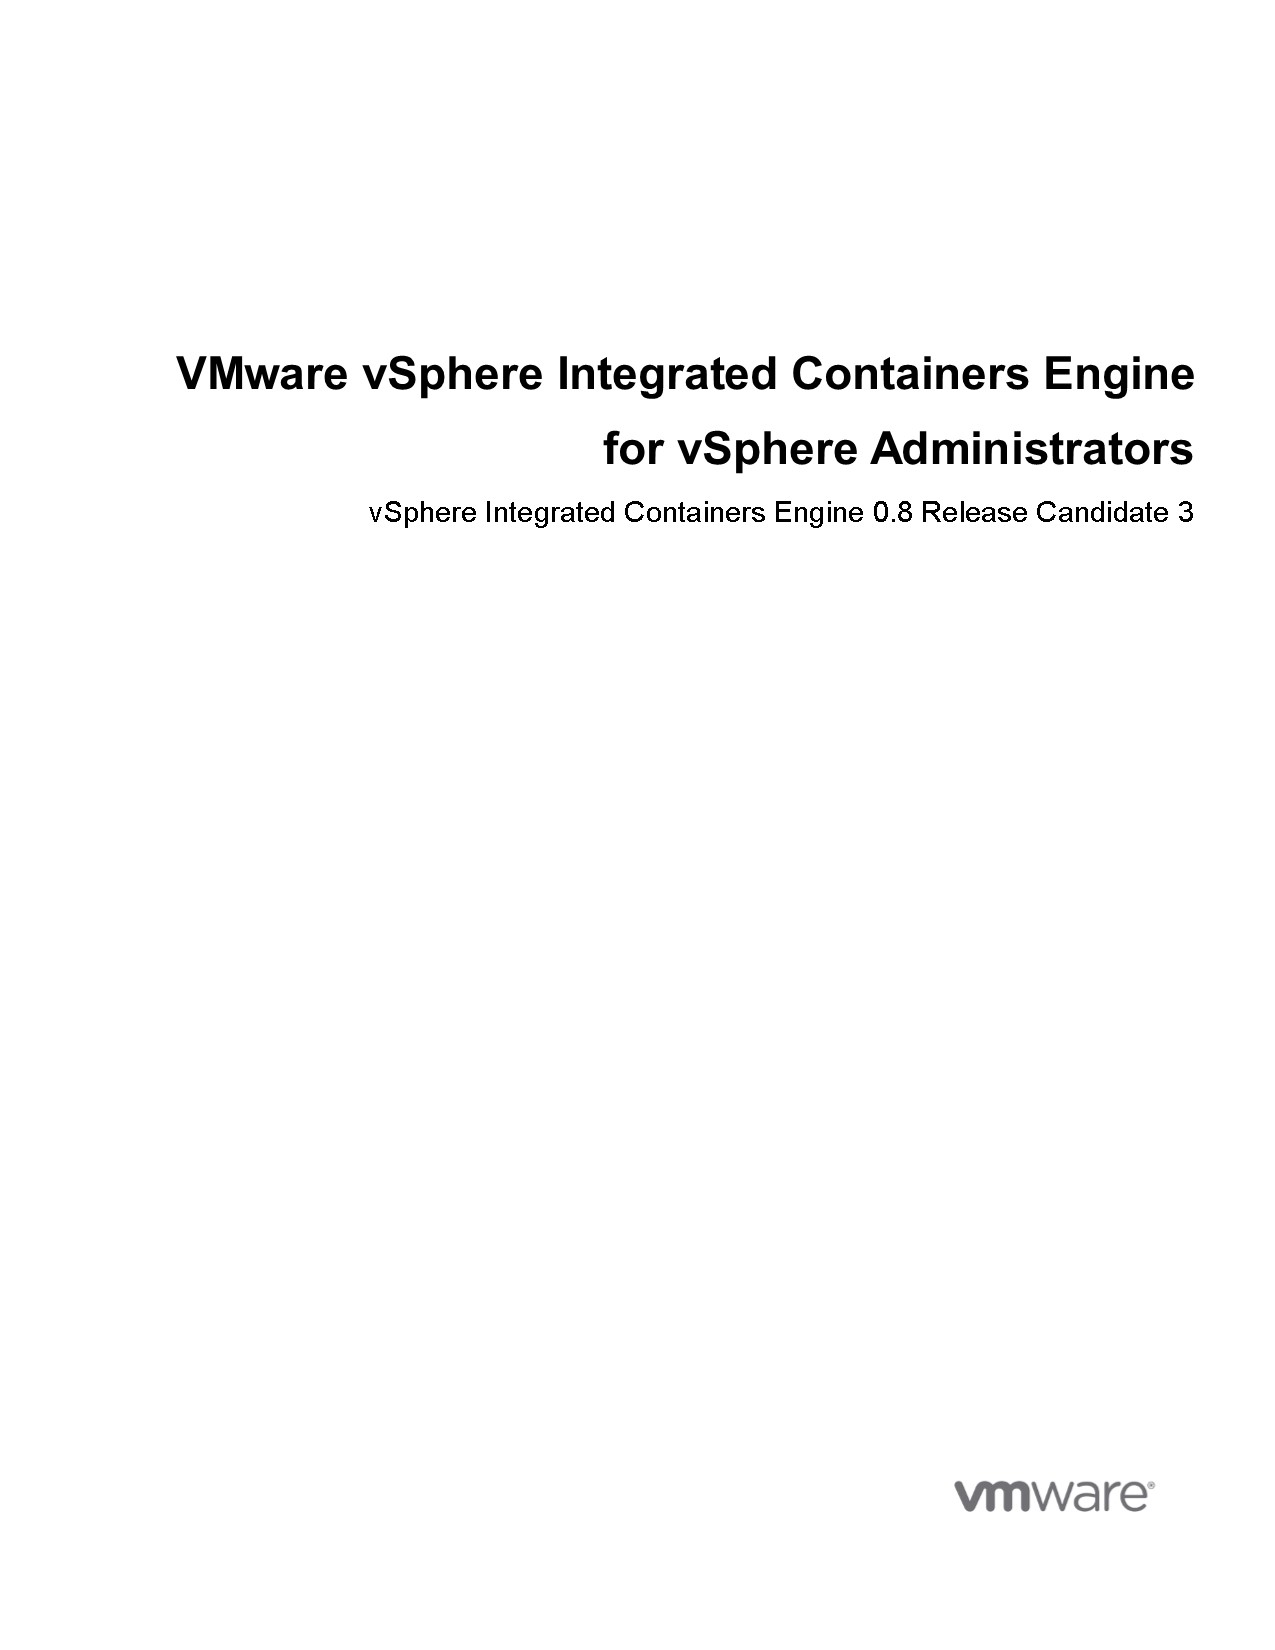
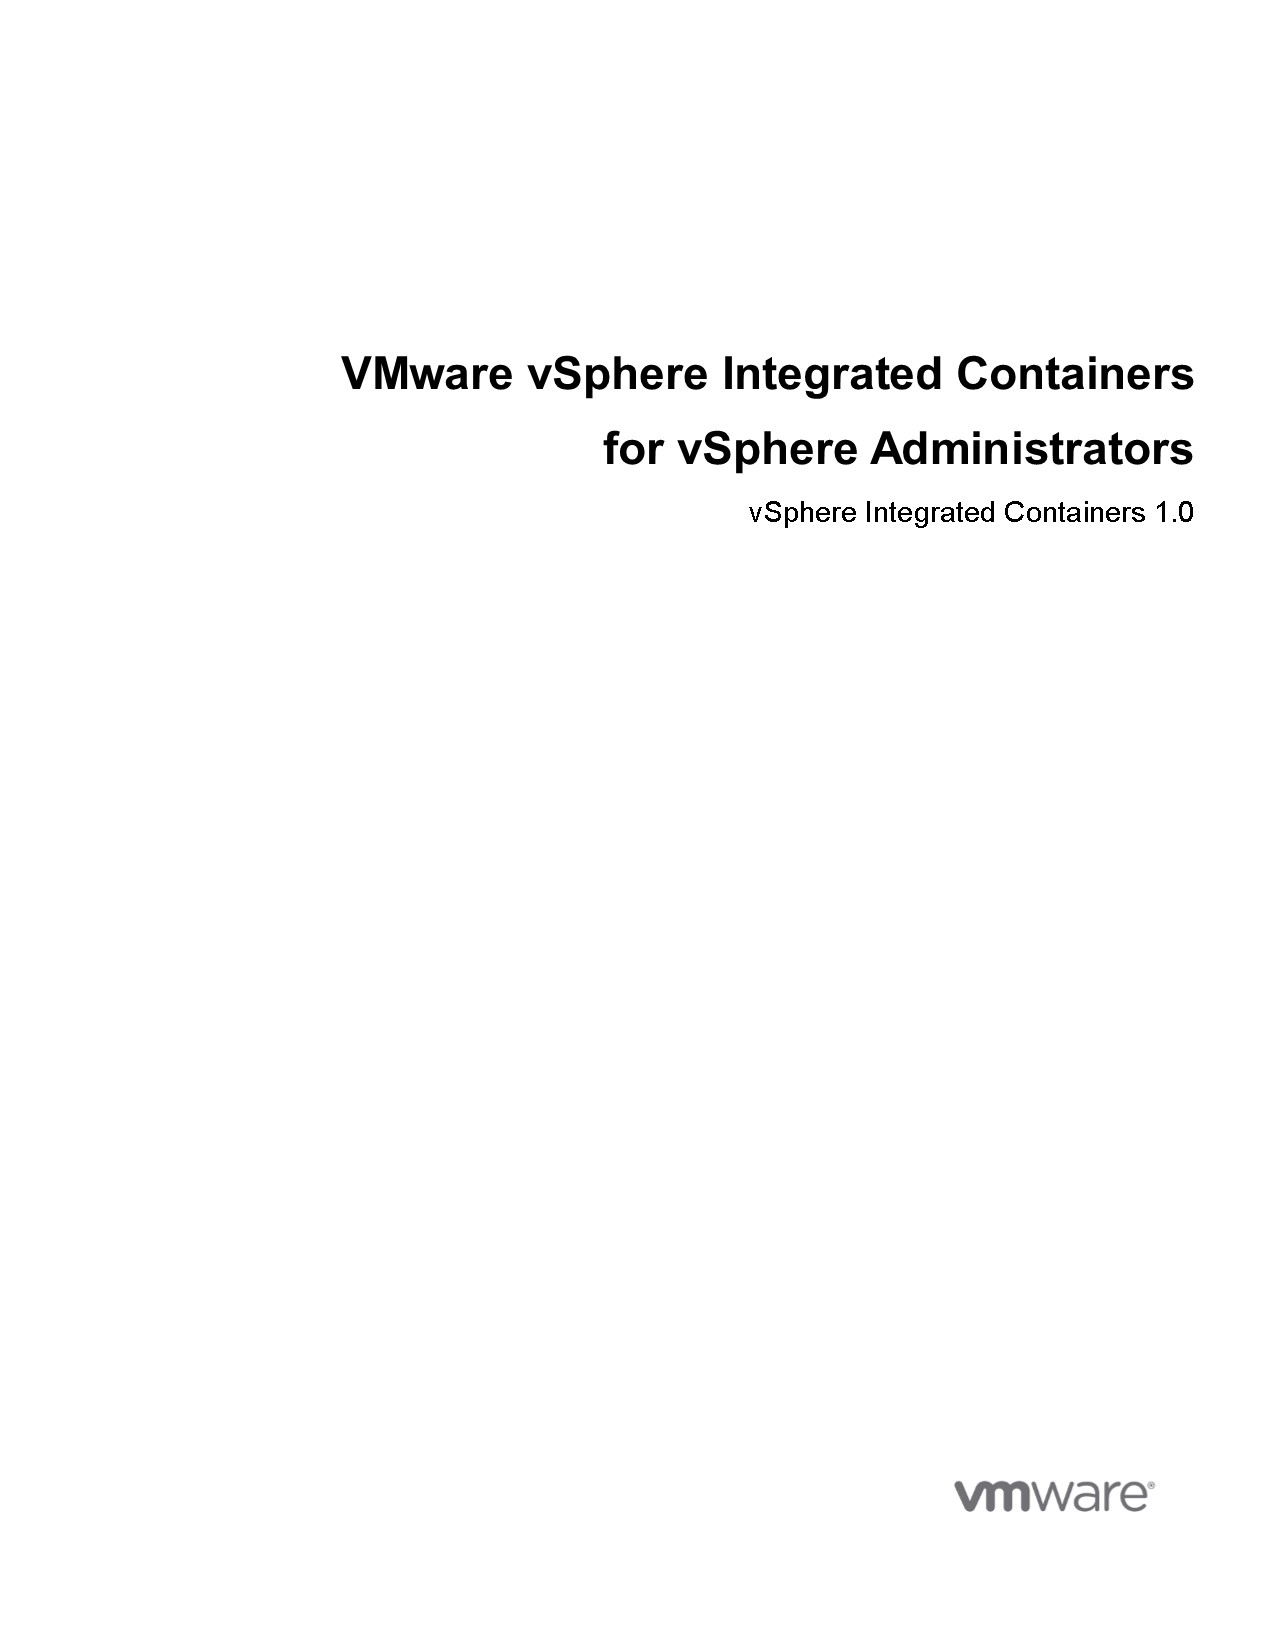
Removing "engine" from doc titles and setting version to 1.0.

diff --git a/doc/user_doc/vic_admin/README.md b/doc/user_doc/vic_admin/README.md
@@ -1,14 +1,14 @@
-# vSphere Integrated Containers Engine for vSphere Administrators
+# vSphere Integrated Containers for vSphere Administrators
 
-*vSphere Integrated Containers Engine for vSphere Administrators* provides information about how to use VMware vSphere&reg; Integrated Containers&trade; Engine as a vSphere Administrator.
+*vSphere Integrated Containers for vSphere Administrators* provides information about how to use VMware vSphere&reg; Integrated Containers&trade; as a vSphere Administrator.
 
-**Product version: 0.8 Release Candidate 3**
+**Product version: 1.0**
 
-For an introduction to vSphere Integrated Containers Engine and descriptions of its main components, see *vSphere Integrated Containers Engine for vSphere Installation*.
+For an introduction to vSphere Integrated Containers and descriptions of its main components, see *vSphere Integrated Containers Installation*.
 
 ## Intended Audience
 
-This information is intended for vSphere&reg; Administrators who must manage a vSphere Integrated Containers Engine implementation in their vSphere environment. The information is written for experienced vSphere  administrators who are familiar with virtual machine technology and datacenter operations. Knowledge of [container technology](https://en.wikipedia.org/wiki/Operating-system-level_virtualization) and [Docker](https://docs.docker.com/) is assumed.
+This information is intended for vSphere&reg; Administrators who must manage a vSphere Integrated Containers implementation in their vSphere environment. The information is written for experienced vSphere  administrators who are familiar with virtual machine technology and datacenter operations. Knowledge of [container technology](https://en.wikipedia.org/wiki/Operating-system-level_virtualization) and [Docker](https://docs.docker.com/) is assumed.
 
 ----------
 

diff --git a/doc/user_doc/vic_app_dev/README.md b/doc/user_doc/vic_app_dev/README.md
@@ -1,14 +1,14 @@
-# Developing Container Applications with vSphere Integrated Containers Engine 
+# Developing Container Applications with vSphere Integrated Containers  
 
-*Developing Container Applications with vSphere Integrated Containers Engine* provides information about how to use VMware vSphere&reg; Integrated Containers&trade; Engine as the endpoint for Docker container application development.
+*Developing Container Applications with vSphere Integrated Containers* provides information about how to use VMware vSphere&reg; Integrated Containers&trade; as the endpoint for Docker container application development.
 
-**Product version: 0.8 Release Candidate 3**
+**Product version: 1.0**
 
-For an introduction to vSphere Integrated Containers Engine and descriptions of its main components, see *vSphere Integrated Containers Engine for vSphere Installation*.
+For an introduction to vSphere Integrated Containers and descriptions of its main components, see *vSphere Integrated Containers Installation*.
 
 ## Intended Audience
 
-This information is intended for container application developers who's Docker environment uses vSphere Integrated Containers Engine as its endpoint. Knowledge of [container technology](https://en.wikipedia.org/wiki/Operating-system-level_virtualization) and [Docker](https://docs.docker.com/) is assumed.
+This information is intended for container application developers whose Docker environment uses vSphere Integrated Containers as its endpoint. Knowledge of [container technology](https://en.wikipedia.org/wiki/Operating-system-level_virtualization) and [Docker](https://docs.docker.com/) is assumed.
 
 ----------
 

diff --git a/doc/user_doc/vic_installation/README.md b/doc/user_doc/vic_installation/README.md
@@ -1,12 +1,12 @@
-# vSphere Integrated Containers Engine Installation
+# vSphere Integrated Containers Installation
 
-*vSphere Integrated Containers Engine Installation* provides information about how to install and configure VMware vSphere&reg; Integrated Containers&trade; Engine.
+*vSphere Integrated Containers Installation* provides information about how to install and configure VMware vSphere&reg; Integrated Containers&trade;.
 
-**Product version: 0.8 Release Candidate 3**
+**Product version: 1.0**
 
 ## Intended Audience
 
-This information is intended for anyone who wants to install, configure, and get started with using vSphere Integrated Containers Engine. The information is written for experienced VMware vSphere&reg; administrators who are familiar with virtual machine technology and datacenter operations. Knowledge of [container technology](https://en.wikipedia.org/wiki/Operating-system-level_virtualization) and [Docker](https://docs.docker.com/) is assumed.
+This information is intended for anyone who wants to install, configure, and get started with using vSphere Integrated Containers. The information is written for experienced VMware vSphere&reg; administrators who are familiar with virtual machine technology and datacenter operations. Knowledge of [container technology](https://en.wikipedia.org/wiki/Operating-system-level_virtualization) and [Docker](https://docs.docker.com/) is assumed.
 
 ----------
 

diff --git a/doc/user_doc/vic_security/README.md b/doc/user_doc/vic_security/README.md
@@ -1,14 +1,14 @@
-# vSphere Integrated Containers Engine Security
+# vSphere Integrated Containers Security
 
-*vSphere Integrated Containers Engine Security* provides security-related information about VMware vSphere&reg; Integrated Containers&trade; Engine.
+*vSphere Integrated Containers Security* provides security-related information about VMware vSphere&reg; Integrated Containers&trade;.
 
-**Product version: 0.8 Release Candidate 3**
+**Product version: 1.0**
 
-For an introduction to vSphere Integrated Containers Engine and descriptions of its main components, see *vSphere Integrated Containers Engine Installation*.
+For an introduction to vSphere Integrated Containers and descriptions of its main components, see *vSphere Integrated Containers Installation*.
 
 ## Intended Audience
 
-This information is intended for VMware vSphere&reg; administrators who must deploy vSphere Integrated Containers Engine in a secure environment. 
+This information is intended for VMware vSphere&reg; administrators who must deploy vSphere Integrated Containers in a secure environment. 
 
 ----------
 

diff --git a/doc/user_doc/vic_installation/deploy_vch_vcenter.md b/doc/user_doc/vic_installation/deploy_vch_vcenter.md
@@ -5,7 +5,7 @@ This topic provides instructions for deploying a virtual container host (VCH) in
 The vCenter Server instance to which you deploy the VCH must match the specifications listed in the prerequisites.
 
 **Prerequisites**
-* Download and unpack the vSphere Integrated Containers Engine bundle. For information about where to obtain vSphere Integrated Containers Engine, see [Download vSphere Integrated Containers Engine](download_vic.md).
+* Download and unpack the vSphere Integrated Containers Engine bundle. For information about where to obtain vSphere Integrated Containers Engine, see [Download vSphere Integrated Containers](download_vic.md).
 * Create or obtain a vCenter Server instance with the following configuration:
   * One datacenter
   * One cluster with two ESXi hosts and DRS enabled. You can use nested ESXi hosts for this example.

diff --git a/doc/user_doc/vic_installation/deploy_vch_esxi.md b/doc/user_doc/vic_installation/deploy_vch_esxi.md
@@ -3,7 +3,7 @@
 This topic provides instructions for deploying a virtual container host (VCH) to an ESXi host that is not managed by vCenter Server. This is the most straightforward way to deploy a VCH, and is ideal for testing.
 
 **Prerequisites**
-* Download and unpack the vSphere Integrated Containers Engine bundle. For information about where to obtain vSphere Integrated Containers Engine, see [Download vSphere Integrated Containers Engine](download_vic.md).
+* Download and unpack the vSphere Integrated Containers Engine bundle. For information about where to obtain vSphere Integrated Containers Engine, see [Download vSphere Integrated Containers](download_vic.md).
 * Create or obtain an ESXi host with the following configuration:
   * One datastore
   * The VM Network is present

diff --git a/doc/user_doc/vic_installation/SUMMARY.md b/doc/user_doc/vic_installation/SUMMARY.md
@@ -3,7 +3,7 @@
 * [Introduction](README.md)
 * [Overview of vSphere Integrated Containers Engine for vSphere Administrators](introduction.md)
   * [Networks Used by vSphere Integrated Containers Engine](networks.md)
-* [Download vSphere Integrated Containers Engine](download_vic.md)
+* [Download vSphere Integrated Containers](download_vic.md)
   * [Contents of the vSphere Integrated Containers Engine Binaries](contents_of_vic_binaries.md)
 * [Deploy VCHs](deploy_vch.md) 
   * [Environment Prerequisites for VCH Deployment](vic_installation_prereqs.md)
